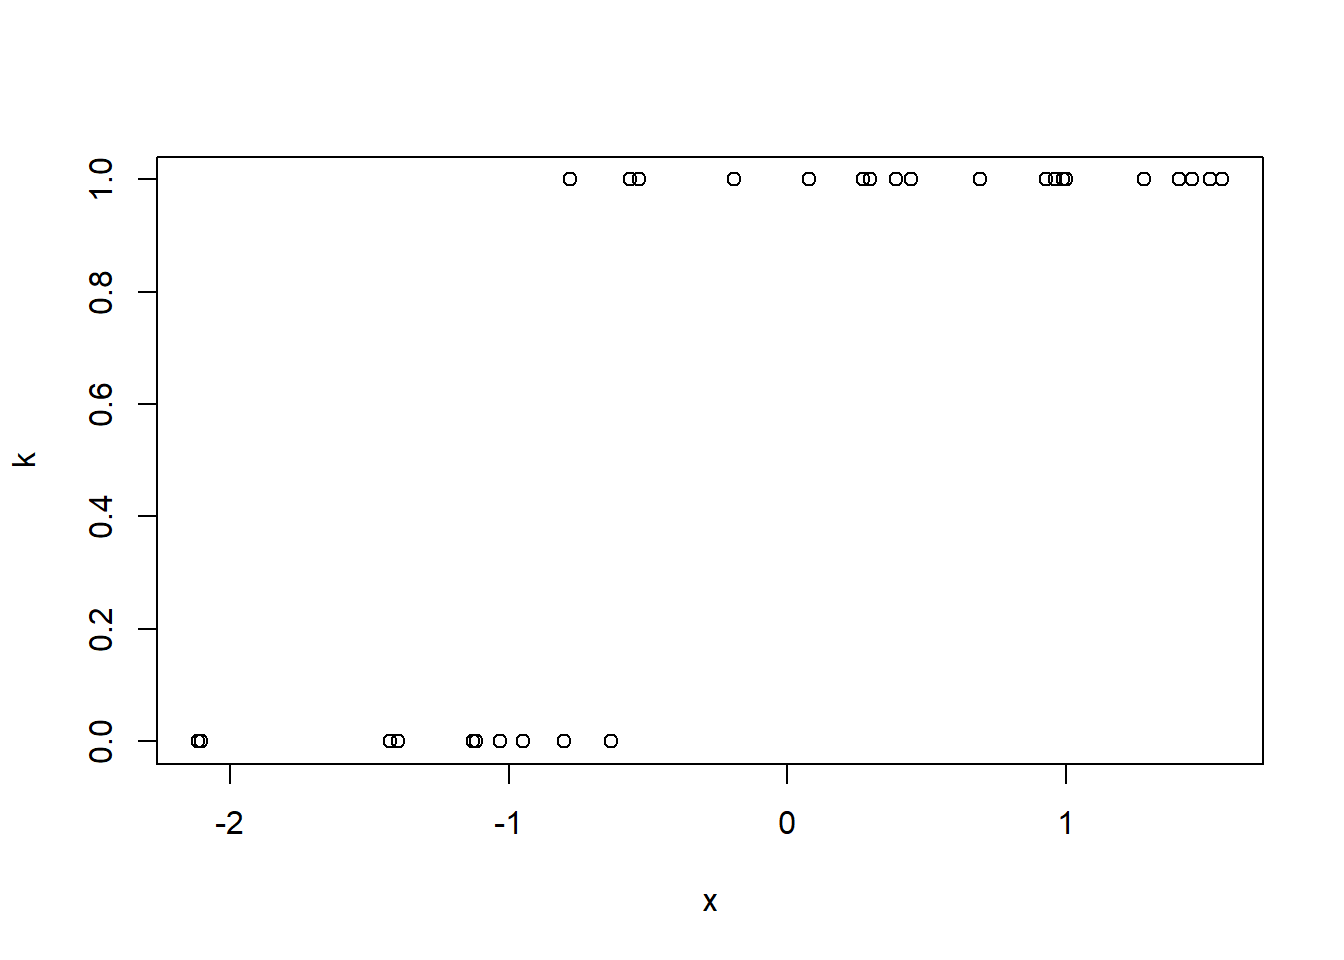
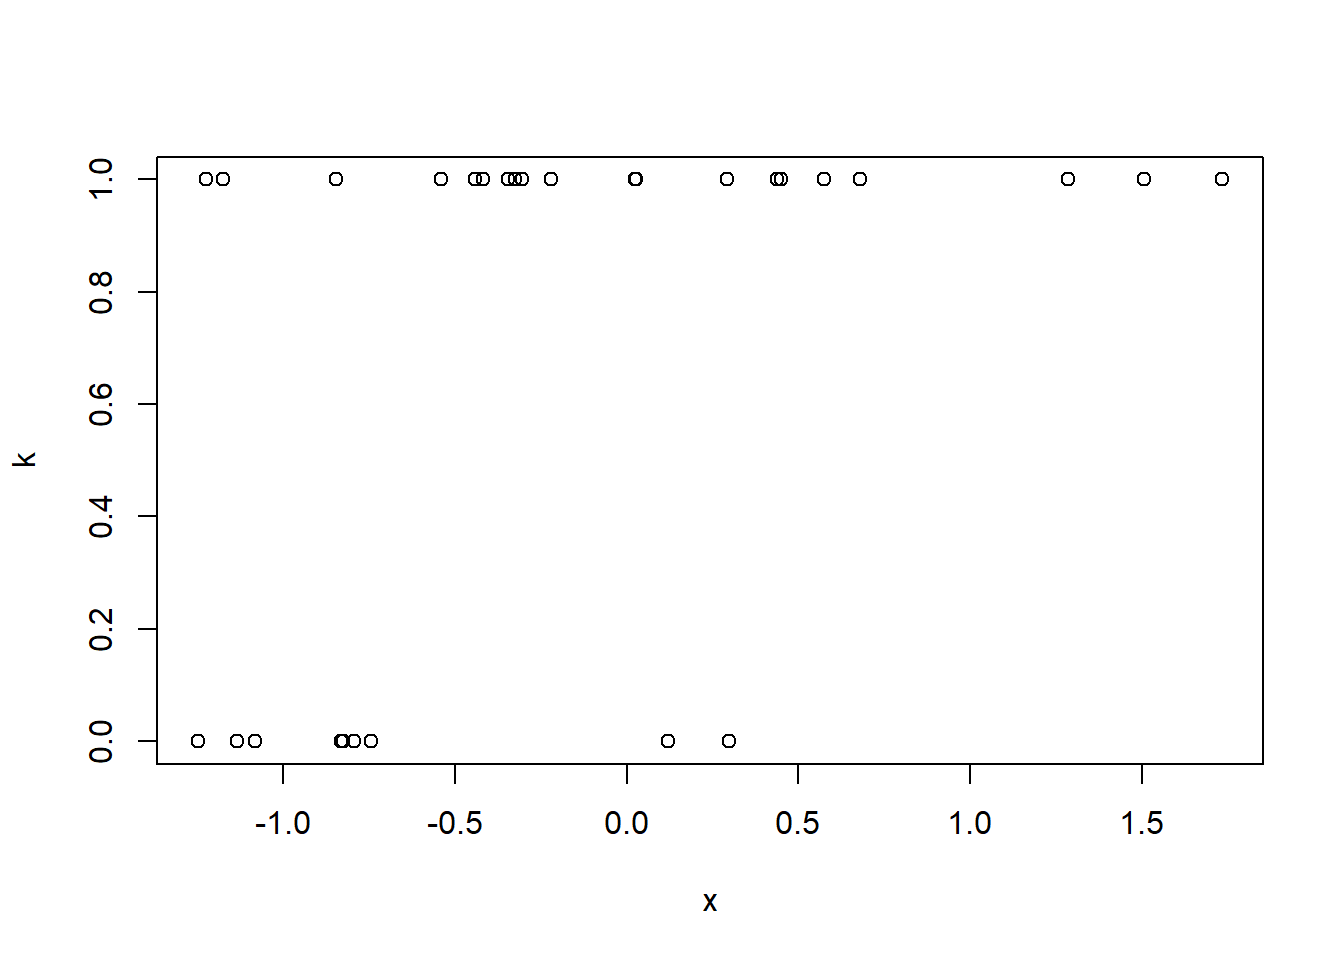
changed workshop date. Note that those R functions that are randomly generated (and that result in saved outputs) will have changes on site_render() due to missing set.seed() for those functions.

diff --git a/docs/bootcamp-r-series-010-intro-to-r-pt1.html b/docs/bootcamp-r-series-010-intro-to-r-pt1.html
@@ -771,13 +771,10 @@ href="https://en.wikipedia.org/wiki/Division_by_zero#Computer_arithmetic">https:
 <h3>Practice</h3>
 <p>The quadratic equation is used to find the roots of quadratic (2nd
 degree) polynomials. For a quadratic polynomial given by</p>
-<p><span class="math display">\[
-ax^2 + bx + c
-\]</span></p>
+<p><span class="math display">\[ax^2 + bx + c\]</span></p>
 <p>the roots are given by</p>
-<p><span class="math display">\[
-x_{1,2} = \frac{-b \pm \sqrt{b^2 -4ac}}{2a}
-\]</span></p>
+<p><span class="math display">\[x_{1,2} = \frac{-b \pm \sqrt{b^2
+-4ac}}{2a}\]</span></p>
 <p>Find the roots of the following equations using the quadratic
 equation:</p>
 <ol style="list-style-type: lower-alpha">
@@ -937,24 +934,24 @@ integer (most of the time).</p>
 <pre class="r"><code># most often used for categorical observations
 pets &lt;- c(&quot;cat&quot;, &quot;dog&quot;, &quot;lizard&quot;, &quot;raccoon&quot;)
 (pet_obs &lt;- sample(pets, 20, TRUE))</code></pre>
-<pre><code>##  [1] &quot;raccoon&quot; &quot;cat&quot;     &quot;cat&quot;     &quot;cat&quot;     &quot;cat&quot;     &quot;cat&quot;     &quot;cat&quot;    
-##  [8] &quot;raccoon&quot; &quot;lizard&quot;  &quot;lizard&quot;  &quot;lizard&quot;  &quot;lizard&quot;  &quot;raccoon&quot; &quot;cat&quot;    
-## [15] &quot;raccoon&quot; &quot;lizard&quot;  &quot;dog&quot;     &quot;lizard&quot;  &quot;lizard&quot;  &quot;lizard&quot;</code></pre>
+<pre><code>##  [1] &quot;raccoon&quot; &quot;lizard&quot;  &quot;lizard&quot;  &quot;lizard&quot;  &quot;dog&quot;     &quot;cat&quot;     &quot;cat&quot;    
+##  [8] &quot;raccoon&quot; &quot;lizard&quot;  &quot;dog&quot;     &quot;raccoon&quot; &quot;lizard&quot;  &quot;dog&quot;     &quot;dog&quot;    
+## [15] &quot;cat&quot;     &quot;raccoon&quot; &quot;dog&quot;     &quot;raccoon&quot; &quot;dog&quot;     &quot;lizard&quot;</code></pre>
 <pre class="r"><code># Turn the character vector into a set of factors
 pet_fct &lt;- factor(pet_obs)
 pet_fct</code></pre>
-<pre><code>##  [1] raccoon cat     cat     cat     cat     cat     cat     raccoon lizard 
-## [10] lizard  lizard  lizard  raccoon cat     raccoon lizard  dog     lizard 
-## [19] lizard  lizard 
+<pre><code>##  [1] raccoon lizard  lizard  lizard  dog     cat     cat     raccoon lizard 
+## [10] dog     raccoon lizard  dog     dog     cat     raccoon dog     raccoon
+## [19] dog     lizard 
 ## Levels: cat dog lizard raccoon</code></pre>
 <pre class="r"><code># can be converted to an integer vector
 as.integer(pet_fct)</code></pre>
-<pre><code>##  [1] 4 1 1 1 1 1 1 4 3 3 3 3 4 1 4 3 2 3 3 3</code></pre>
+<pre><code>##  [1] 4 3 3 3 2 1 1 4 3 2 4 3 2 2 1 4 2 4 2 3</code></pre>
 <pre class="r"><code># can be converted to a character vector
 as.character(pet_fct)</code></pre>
-<pre><code>##  [1] &quot;raccoon&quot; &quot;cat&quot;     &quot;cat&quot;     &quot;cat&quot;     &quot;cat&quot;     &quot;cat&quot;     &quot;cat&quot;    
-##  [8] &quot;raccoon&quot; &quot;lizard&quot;  &quot;lizard&quot;  &quot;lizard&quot;  &quot;lizard&quot;  &quot;raccoon&quot; &quot;cat&quot;    
-## [15] &quot;raccoon&quot; &quot;lizard&quot;  &quot;dog&quot;     &quot;lizard&quot;  &quot;lizard&quot;  &quot;lizard&quot;</code></pre>
+<pre><code>##  [1] &quot;raccoon&quot; &quot;lizard&quot;  &quot;lizard&quot;  &quot;lizard&quot;  &quot;dog&quot;     &quot;cat&quot;     &quot;cat&quot;    
+##  [8] &quot;raccoon&quot; &quot;lizard&quot;  &quot;dog&quot;     &quot;raccoon&quot; &quot;lizard&quot;  &quot;dog&quot;     &quot;dog&quot;    
+## [15] &quot;cat&quot;     &quot;raccoon&quot; &quot;dog&quot;     &quot;raccoon&quot; &quot;dog&quot;     &quot;lizard&quot;</code></pre>
 </div>
 <div id="overview-of-objects-and-data-structures"
 class="section level2">
@@ -1375,7 +1372,7 @@ lm(y ~ x) # slope-intercept model. Same as `lm(y ~ 1 + x)`</code></pre>
 ## 
 ## Coefficients:
 ## (Intercept)            x  
-##       1.966        2.844</code></pre>
+##       1.917        3.203</code></pre>
 <pre class="r"><code>lm(y ~ 0 + x) # slope only model (no intercept)</code></pre>
 <pre><code>## 
 ## Call:
@@ -1383,7 +1380,7 @@ lm(y ~ x) # slope-intercept model. Same as `lm(y ~ 1 + x)`</code></pre>
 ## 
 ## Coefficients:
 ##     x  
-## 2.816</code></pre>
+## 2.754</code></pre>
 <p>Can also fit a generalized linear model using (you guessed it) the
 <code>glm()</code> function.</p>
 <pre class="r"><code># logit(theta) = 3x + 2
@@ -1397,11 +1394,11 @@ glm(k ~ 1 + x, family = binomial(link = &quot;logit&quot;))</code></pre>
 ## 
 ## Coefficients:
 ## (Intercept)            x  
-##       7.926       11.309  
+##       1.504        1.809  
 ## 
 ## Degrees of Freedom: 29 Total (i.e. Null);  28 Residual
-## Null Deviance:       38.19 
-## Residual Deviance: 6.18  AIC: 10.18</code></pre>
+## Null Deviance:       36.65 
+## Residual Deviance: 29.35     AIC: 33.35</code></pre>
 </div>
 <div id="summarizing-data-frames-and-models" class="section level2">
 <h2>Summarizing data frames and models</h2>
@@ -1410,18 +1407,18 @@ models, and it is the <code>summary()</code> function.</p>
 <pre class="r"><code># summarize a numeric vector
 z &lt;- rnorm(50)
 summary(z)</code></pre>
-<pre><code>##     Min.  1st Qu.   Median     Mean  3rd Qu.     Max. 
-## -2.23093 -0.59517 -0.02516  0.03417  0.65061  2.31320</code></pre>
+<pre><code>##    Min. 1st Qu.  Median    Mean 3rd Qu.    Max. 
+## -3.9110 -0.8585 -0.2115 -0.1279  0.5083  2.6114</code></pre>
 <pre class="r"><code># summarize a data frame
 df &lt;- data.frame(a = 1L:10L, b = rexp(10), c = factor(sample(c(&quot;a&quot;, &quot;b&quot;, &quot;c&quot;), 10, TRUE)))
 summary(df)</code></pre>
-<pre><code>##        a               b          c    
-##  Min.   : 1.00   Min.   :0.1217   a:4  
-##  1st Qu.: 3.25   1st Qu.:0.3928   b:5  
-##  Median : 5.50   Median :0.6411   c:1  
-##  Mean   : 5.50   Mean   :0.9085        
-##  3rd Qu.: 7.75   3rd Qu.:1.2729        
-##  Max.   :10.00   Max.   :2.7044</code></pre>
+<pre><code>##        a               b           c    
+##  Min.   : 1.00   Min.   :0.01176   a:3  
+##  1st Qu.: 3.25   1st Qu.:0.17207   b:2  
+##  Median : 5.50   Median :0.46864   c:5  
+##  Mean   : 5.50   Mean   :0.95928        
+##  3rd Qu.: 7.75   3rd Qu.:1.66443        
+##  Max.   :10.00   Max.   :3.18948</code></pre>
 <pre class="r"><code># summarize a linear model
 fit &lt;- lm(y ~ 1 + x)
 summary(fit)</code></pre>
@@ -1430,19 +1427,19 @@ summary(fit)</code></pre>
 ## lm(formula = y ~ 1 + x)
 ## 
 ## Residuals:
-##      Min       1Q   Median       3Q      Max 
-## -0.77876 -0.24149  0.01093  0.28474  1.04577 
+##     Min      1Q  Median      3Q     Max 
+## -0.8630 -0.4148 -0.1458  0.3021  1.3872 
 ## 
 ## Coefficients:
 ##             Estimate Std. Error t value Pr(&gt;|t|)    
-## (Intercept)  1.96636    0.07602   25.86   &lt;2e-16 ***
-## x            2.84402    0.06952   40.91   &lt;2e-16 ***
+## (Intercept)   1.9169     0.1121   17.09 2.38e-16 ***
+## x             3.2034     0.1385   23.13  &lt; 2e-16 ***
 ## ---
 ## Signif. codes:  0 &#39;***&#39; 0.001 &#39;**&#39; 0.01 &#39;*&#39; 0.05 &#39;.&#39; 0.1 &#39; &#39; 1
 ## 
-## Residual standard error: 0.4163 on 28 degrees of freedom
-## Multiple R-squared:  0.9835, Adjusted R-squared:  0.983 
-## F-statistic:  1673 on 1 and 28 DF,  p-value: &lt; 2.2e-16</code></pre>
+## Residual standard error: 0.603 on 28 degrees of freedom
+## Multiple R-squared:  0.9503, Adjusted R-squared:  0.9485 
+## F-statistic:   535 on 1 and 28 DF,  p-value: &lt; 2.2e-16</code></pre>
 <p>Notice that it outputs differently for different input objects. This
 is because <code>summary()</code> is a <em>generic</em> function,
 meaning that it has multiple <em>methods</em> defined for different R

diff --git a/docs/bootcamp-r-series-040-tidy.html b/docs/bootcamp-r-series-040-tidy.html
@@ -555,7 +555,7 @@ messy data:</p>
 <h3>Data in the column headers</h3>
 <p><strong>Messy</strong></p>
 <pre><code>## re-encoding from CP1252</code></pre>
-<table style="width:100%;">
+<table style="width:99%;">
 <caption>Column header with variables</caption>
 <colgroup>
 <col width="34%" />
@@ -737,7 +737,7 @@ messy data:</p>
 <div id="multiple-variables-in-one-column" class="section level3">
 <h3>Multiple variables in one column</h3>
 <p><strong>Messy</strong></p>
-<table style="width:100%;">
+<table style="width:99%;">
 <caption>Multiple data in individual columns</caption>
 <colgroup>
 <col width="13%" />
@@ -1387,7 +1387,7 @@ class="section level3">
 <h3>Multiple types of observational units are stored in the same
 variable</h3>
 <p><strong>Messy</strong></p>
-<table style="width:100%;">
+<table style="width:99%;">
 <colgroup>
 <col width="5%" />
 <col width="17%" />
@@ -1514,7 +1514,7 @@ variable</h3>
 </tbody>
 </table>
 <p><strong>Half Tidy</strong></p>
-<table style="width:100%;">
+<table style="width:99%;">
 <colgroup>
 <col width="6%" />
 <col width="10%" />
@@ -1971,29 +1971,29 @@ replication</li>
 # notice you do not need the () after the function as you would if executing from consol
 map(df, mean)</code></pre>
 <pre><code>## $a
-## [1] 0.2917906
+## [1] 0.1865534
 ## 
 ## $b
-## [1] 0.1764268
+## [1] 0.2677202
 ## 
 ## $c
-## [1] 0.3202808
+## [1] -0.4666551
 ## 
 ## $d
-## [1] 0.3298261</code></pre>
+## [1] -0.6693295</code></pre>
 <pre class="r"><code># can pipe it an input to make the process even easier
 df %&gt;% map(mean)</code></pre>
 <pre><code>## $a
-## [1] 0.2917906
+## [1] 0.1865534
 ## 
 ## $b
-## [1] 0.1764268
+## [1] 0.2677202
 ## 
 ## $c
-## [1] 0.3202808
+## [1] -0.4666551
 ## 
 ## $d
-## [1] 0.3298261</code></pre>
+## [1] -0.6693295</code></pre>
 <p>You may have noticed that the output format is not necessarily in the
 format that we might expect. The <code>map()</code> function always
 outputs a list.</p>
@@ -2003,8 +2003,8 @@ of a map function: <code>map_lgl()</code>, <code>map_int()</code>,
 vector of the indicated type (or die trying).</p>
 <pre class="r"><code># Should return a numerical vector rather than a list
 map_dbl(df, mean)</code></pre>
-<pre><code>##         a         b         c         d 
-## 0.2917906 0.1764268 0.3202808 0.3298261</code></pre>
+<pre><code>##          a          b          c          d 
+##  0.1865534  0.2677202 -0.4666551 -0.6693295</code></pre>
 </div>
 </div>
 

diff --git a/docs/bootcamp-r-series-020-intro-to-r-pt2.html b/docs/bootcamp-r-series-020-intro-to-r-pt2.html
@@ -598,7 +598,7 @@ switch (stat,
   round = round(x, 2),
   &quot;Default option: no match found&quot;
 )</code></pre>
-<pre><code>## [1] 2.953576</code></pre>
+<pre><code>## [1] 3.197307</code></pre>
 </div>
 </div>
 <div id="the--apply-family-of-functions" class="section level2">
@@ -662,12 +662,10 @@ turn it into a function
 </ul>
 <p>The Huber loss function (or just Huber function, for short) is
 defined as:</p>
-<p><span class="math display">\[
-\psi(x) = \begin{cases}
+<p><span class="math display">\[\psi(x) = \begin{cases}
 x^2 &amp; \text{if } |x| \leq 1 \\
 2|x| - 1 &amp; \text{if } |x| &gt; 1
-\end{cases}
-\]</span></p>
+\end{cases}\]</span></p>
 <pre class="r"><code># write a function `huber()` that takes as an input a number, x,
 # and returns the Huber value
 huber &lt;- function(x) {
@@ -680,12 +678,10 @@ huber &lt;- function(x) {
 <p>The Huber function can be modified so that the transition from
 quadratic to linear happens at an arbitrary cutoff value <span
 class="math inline">\(a\)</span>, as in:</p>
-<p><span class="math display">\[
-\psi_a(x) = \begin{cases}
+<p><span class="math display">\[\psi_a(x) = \begin{cases}
 x^2 &amp; \text{if } |x| \leq a \\
 2a|x| - a^2 &amp; \text{if } |x| &gt; a
-\end{cases}
-\]</span></p>
+\end{cases}\]</span></p>
 <p>Starting with the code above, update the <code>huber()</code>
 function so that it takes two arguments: <span
 class="math inline">\(x\)</span>, a number at which to evaluate the

diff --git a/docs/workshop-intro-ml_2026-11.html b/docs/workshop-intro-ml_2026-11.html
@@ -376,7 +376,7 @@ $(document).ready(function () {
 
 
 <p>NV INBRE invites you to join us for an introductory Machine Learning
-Workshop at UNLV on Friday, November 20, 2026!</p>
+Workshop at UNLV on Monday, November 23, 2026!</p>
 <p>Machine learning is transforming how we analyze data, identify
 patterns, and approach complex research questions across many
 disciplines. Whether you are completely new to machine learning or
@@ -385,7 +385,7 @@ great opportunity to get started.</p>
 <div id="workshop-details" class="section level2">
 <h2>Workshop Details</h2>
 <ul>
-<li><strong>Date:</strong> Friday, November 20, 2026</li>
+<li><strong>Date:</strong> Monday, November 23, 2026</li>
 <li><strong>Time:</strong> 9:00 am – 12:00 pm</li>
 <li><strong>Location:</strong> University of Nevada, Las Vegas (UNLV);
 room details will be shared after the registration deadline</li>

diff --git a/docs/NSC_IntrotoR.html b/docs/NSC_IntrotoR.html
@@ -1123,7 +1123,7 @@ lm(y ~ x) # slope-intercept model. Same as `lm(y ~ 1 + x)`</code></pre>
 ## 
 ## Coefficients:
 ## (Intercept)            x  
-##       1.896        2.987</code></pre>
+##       2.166        3.150</code></pre>
 <pre class="r"><code>lm(y ~ 0 + x) # slope only model (no intercept)</code></pre>
 <pre><code>## 
 ## Call:
@@ -1131,7 +1131,7 @@ lm(y ~ x) # slope-intercept model. Same as `lm(y ~ 1 + x)`</code></pre>
 ## 
 ## Coefficients:
 ##     x  
-## 2.801</code></pre>
+## 3.233</code></pre>
 <div id="practice-time" class="section level3">
 <h3>Practice time!</h3>
 <p>Write a script that creates a linear model relating mpg and cyl of
